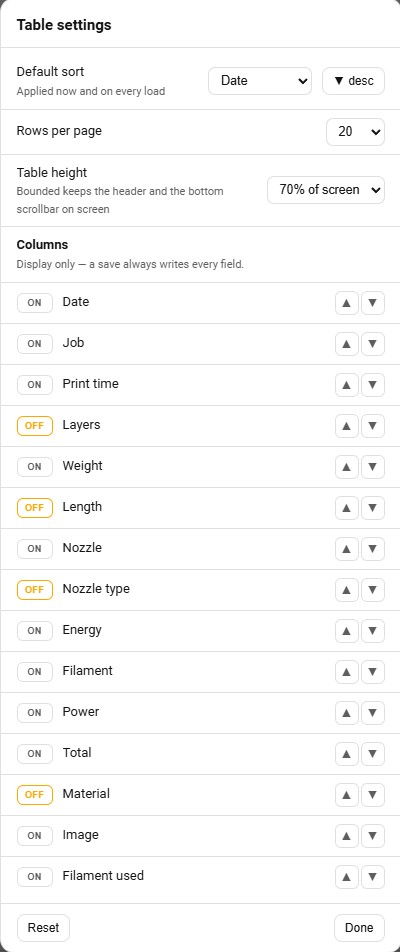
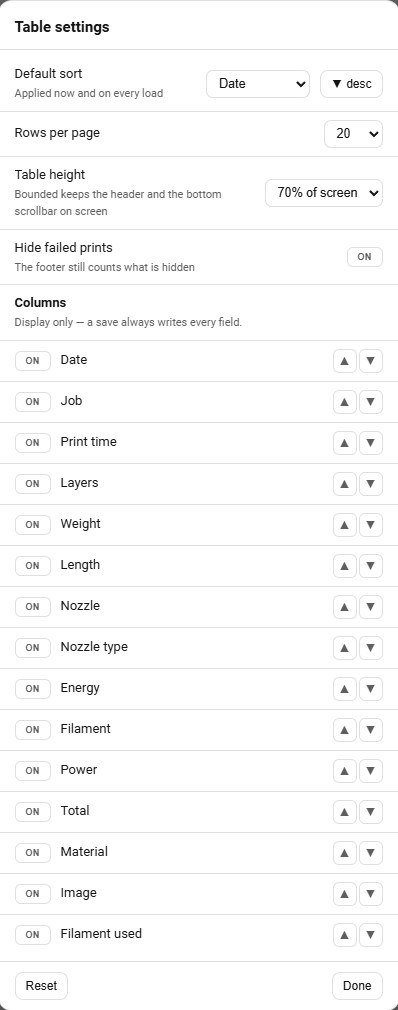
Mark failed prints [FAILED] by default, and picture the manual forms
The prefix is prefilled, not enforced — the Job field is right there in
the form to edit it away. Five new screenshots document the + Print
menu, both forms and the capture flow; the refreshed history shot shows
a failed row's red wash and finished/total layers. The docs that said
aborted prints are not logged automatically now all say the other half
too: they can be logged by hand, and where that is explained.

diff --git a/custom_components/bambu_costs/frontend/bambu-costs-jobs-table.js b/custom_components/bambu_costs/frontend/bambu-costs-jobs-table.js
@@ -489,6 +489,11 @@ class BambuCostsJobsTable extends HTMLElement {
     const row = draft.row || {};
     row.status = failed ? "failed" : "success";
     if (!failed) row.layers_done = 0;
+    // A failure announces itself in the log's Job column. Prefilled, not
+    // enforced — the field is right there to edit the tag away.
+    if (failed && !/\[FAILED\]/i.test(row.job || "")) {
+      row.job = ("[FAILED] " + (row.job || "")).trim();
+    }
     // The untouched plan, kept aside so the layer ratio always scales from
     // the full job rather than compounding on its own output.
     const plan = JSON.parse(JSON.stringify(row));

diff --git a/docs/cards.md b/docs/cards.md
@@ -78,24 +78,38 @@ narrows it to anything — a date, a job name, a material:
 - Every row carries a **🗑** button. A deletion is staged like any other edit — the row
   is struck through, the button flips to ↩ to take it back, and only **Save** actually
   removes it from the file (with the previous version in `jobs.csv.bak` as the net).
-- **+ Print** in the toolbar expands to the two manual forms: *Add failed print* and
-  *Add finished print*. The failed one logs a print that died part-way. The form is
+- **+ Print** in the toolbar expands to the two manual forms:
+
+  ![+ Print expands to Add finished print and Add failed print](images/print_history_add_print.jpg)
+
+  ***Add failed print*** logs a print that died part-way. The form is
   pre-filled by the integration — from the print running now, or the last one once the
   printer is idle — with one extra field: **how many layers finished**. The filament
   figures start as the job's plan scaled by that ratio (the printer only ever reports
   planned weights), and editing the layer count rescales them; duration, energy and
   electricity are the stint's measured reality and are not scaled — for a print still
   running, the Print time field notes the planned duration alongside, the way the
-  layers pair reads done against total. Everything is
-  editable, per AMS slot included. The picture is a deliberate choice: press
-  **📷 Capture photo** for a camera shot of the failed plate, or Save stores the
-  slicer's render. A checkbox (on by default) banks the row's filament — the scaled
-  figures, not the full plan — to the lifetime totals on save.
+  layers pair reads done against total. Everything is editable, per AMS slot included,
+  and the job name arrives prefixed with `[FAILED]` so the log reads at a glance —
+  edit the tag away in the form if you'd rather not have it.
+
+  ![The failed-print form: layers completed over total, the plan scaled to match, everything editable](images/print_history_add_failed_print_modal.jpg)
+
+  The picture is a deliberate choice: press **📷 Capture photo** for a camera shot of
+  the failed plate, or Save stores the slicer's render. A checkbox (on by default)
+  banks the row's filament — the scaled figures, not the full plan — to the lifetime
+  totals on save.
+
+  ![The Picture row before capturing: one button, and Save would keep the render](images/print_history_add_print_capture_before_click.jpg)
+  ![After capturing: the camera's shot of the plate, with a retake one click away](images/print_history_add_print_capture_after_click.jpg)
+
 - ***Add finished print*** is its twin, for a completed job the integration never saw
   finish — Home Assistant down at the moment the printer reported it, or a job worth
   logging after the fact. Same pre-filled form, minus the layer scaling: the plan
   stands as reported, a single Layers field, and the same capture button and totals
   checkbox.
+
+  ![The finished-print form: the plan as reported, no scaling, ready to save](images/print_history_add_finished_print.jpg)
 - A failed print's row wears the faintest red wash, and its **Layers** cell shows
   `finished/total` — both halves editable. **Hide failed prints** in the settings is on
   by default; the footer counts what is hidden.

diff --git a/README.md b/README.md
@@ -8,7 +8,7 @@ AMS slot, electricity, and a per-job history — and ships the Lovelace cards to
 Point it at your printer during setup and the sensors are found for you. The filament
 slots are free-form, so any AMS layout — or none — works.
 
-![The print history card: per-job costs, energy, materials and per-slot filament use](docs/images/print_history_full_table.jpg)
+![The print history card: per-job costs, energy, materials, per-slot filament use — and a failed print's red-washed row with its layers reading finished/total](docs/images/print_history_full_table.jpg)
 
 ## Highlights
 
@@ -21,7 +21,10 @@ slots are free-form, so any AMS layout — or none — works.
   power reaches the total. Cross-checked against the energy counters, so a smart plug
   dropping off the network cannot silently under-bill a job.
 - **A job log with pictures** — the slicer's render, or a camera photo of what actually
-  came off the plate.
+  came off the plate. Failed prints are never logged blind — the printer only reports
+  *planned* weights, so that would bill a first-layer crash in full — but the jobs card
+  logs them by hand: pre-filled, scaled to the layers that finished, and marked
+  `[FAILED]` ([details](docs/entities.md#logging-a-finished-job)).
 - **Spools scan themselves in**: loading an unknown tag appends a library row, named
   from Bambu's colour palette, ready for you to price.
 - **Three cards** — tag library editor, print history, quote calculator — registered

diff --git a/docs/costing.md b/docs/costing.md
@@ -30,7 +30,9 @@ Two consequences fall out of the accumulator running continuously:
 - **Every stretch is banked into `total_cost` exactly once.** `cost_at_print_end` doubles
   as a banked-through mark: idle windows are added when the next print starts (or on a
   reconnect resync), and a print's own stint is added when it ends — **aborted or not**,
-  so a stopped print's electricity is not lost just because nothing logged it. `log_job`
+  so a stopped print's electricity is not lost just because nothing logged it. The
+  print itself can still be logged by hand, filament and all, from the jobs card's
+  failed-print form ([details](entities.md#logging-a-finished-job)). `log_job`
   therefore adds only the filament to the total; with no power sensors configured there
   is no live banking, and the row's estimated power cost rides along instead. A resume
   banks nothing, so a recovered job cannot be charged twice.

diff --git a/docs/entities.md b/docs/entities.md
@@ -87,7 +87,8 @@ Aborted prints are deliberately not logged automatically — the printer reports
 Their electricity still reaches the total either way (see [costing](costing.md)). The
 judgement call — how far did it actually get — is the jobs card's
 [failed-print form](cards.md#jobs-table): pre-filled from the printer, scaled by the
-layers that finished, and able to bank the scaled filament to the totals as it saves.
+layers that finished, the job name marked `[FAILED]` (edit it away if unwanted), and
+able to bank the scaled filament to the totals as it saves.
 Its twin, the finished-print form, covers the opposite gap — a completed job the
 integration never saw finish (Home Assistant down at the time, say) — with the same
 pre-fill and the same totals checkbox.
